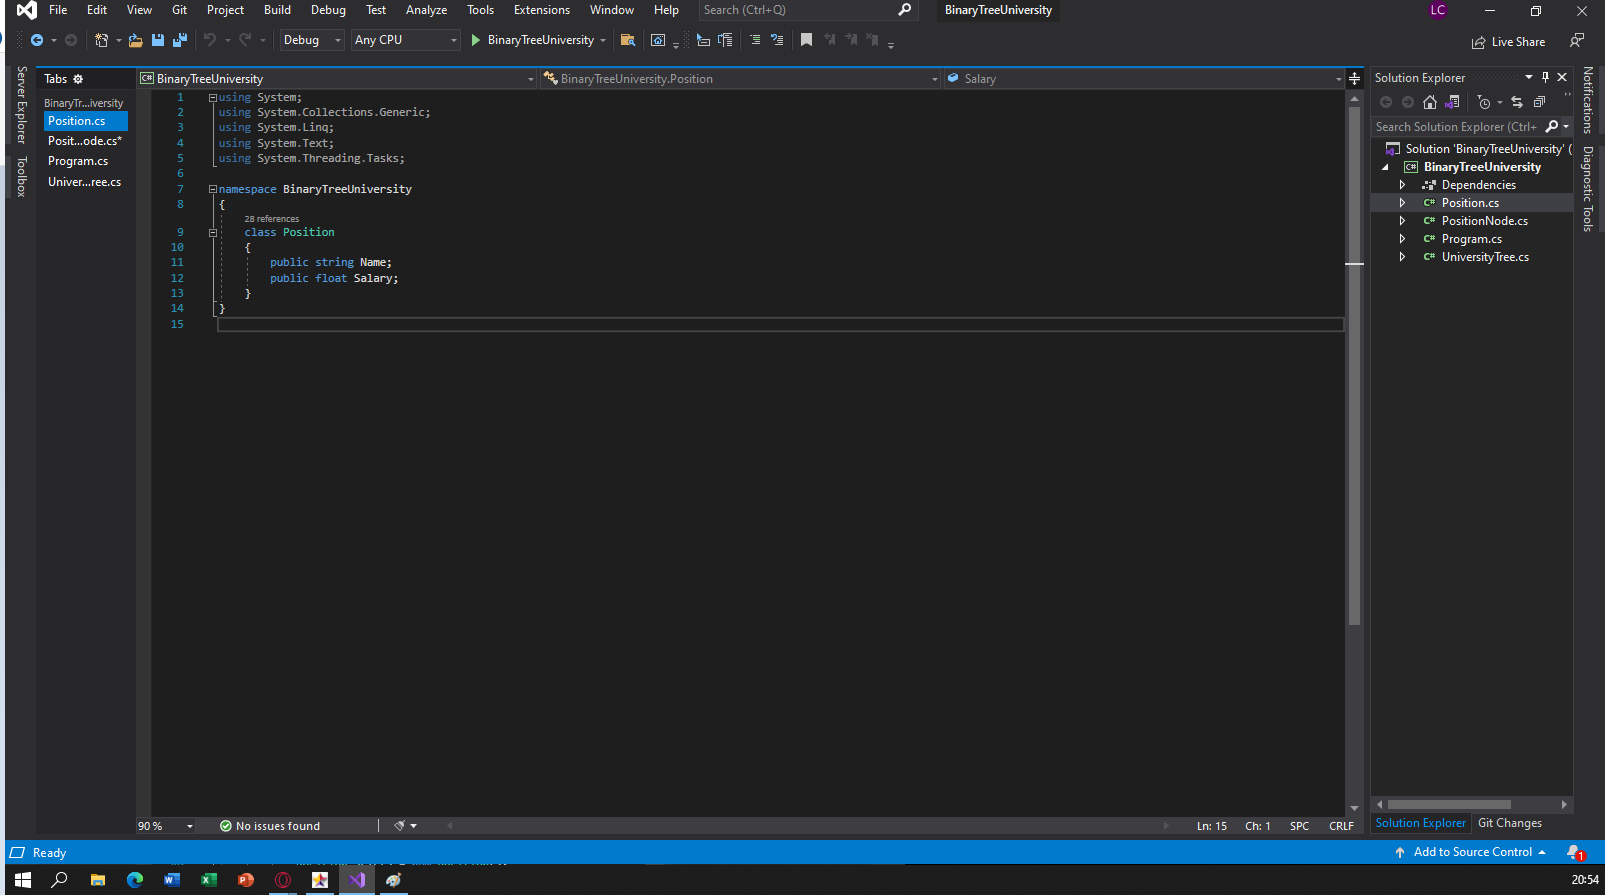
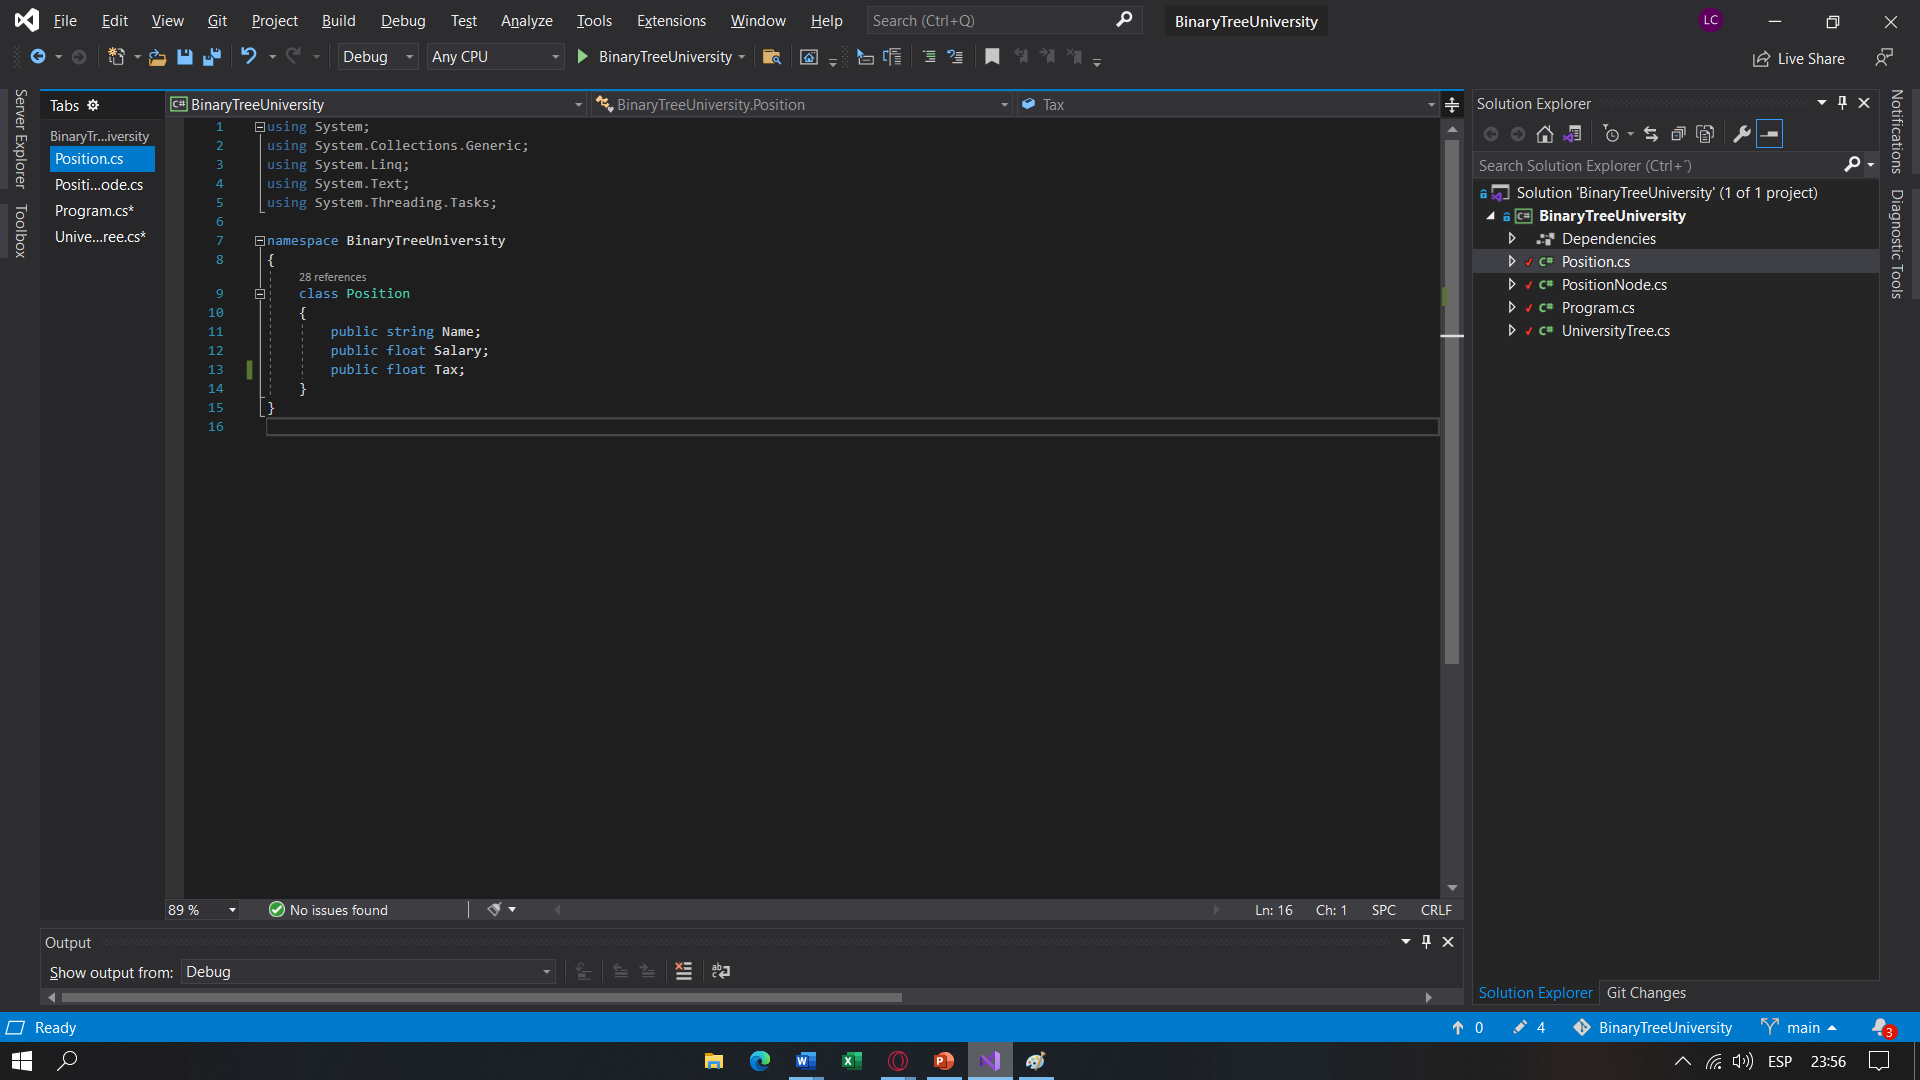
first commit

Changed region(s): [[0.0, 0.0, 1.0, 1.0], [0.5607, 0.0, 0.6854, 0.0302], [0.8723, 0.0, 0.9034, 0.0302]]

diff --git a/BinaryTreeUniversity/Program.cs b/BinaryTreeUniversity/Program.cs
@@ -6,81 +6,114 @@ namespace BinaryTreeUniversity
     {
         static void Main(string[] args)
         {
+           
+
             Position rectorPosition = new Position();
             rectorPosition.Name = "rector";
             rectorPosition.Salary = 1000;
+            rectorPosition.Tax = 30;
+
 
             Position vicFinPosition = new Position();
             vicFinPosition.Name = "Vicerector Financiero";
             vicFinPosition.Salary = 750;
+            vicFinPosition.Tax = 20;
 
-           Position contadorPosition = new Position();
+
+            Position contadorPosition = new Position();
             contadorPosition.Name = "contador";
             contadorPosition.Salary = 500;
+            contadorPosition.Tax = 10;
+
 
             Position jefeFinPosition = new Position();
             jefeFinPosition.Name = "Jefe financiero";
             jefeFinPosition.Salary = 610;
+            jefeFinPosition.Tax = 11;
+
 
             Position secFin1Position = new Position();
             secFin1Position.Name = "Secretaría Financiera 1 ";
             secFin1Position.Salary = 350;
+            secFin1Position.Tax = 5;
 
             Position secFin2Position = new Position();
             secFin2Position.Name = "Secretaría Financiera 2 ";
-            secFin2Position.Salary = 350;
+            secFin2Position.Salary = 310;
+            secFin2Position.Tax = 6;
 
             Position vicAcadPosition = new Position();
-            vicAcadPosition.Name = "Vicerector académico";
+            vicAcadPosition.Name = "Vicerector academico";
             vicAcadPosition.Salary = 780;
+            vicAcadPosition.Tax = 8;
 
             Position jefeRegPosition = new Position();
             jefeRegPosition.Name = "Jefe de Registro";
             jefeRegPosition.Salary = 640;
+            jefeRegPosition.Tax = 9;
 
             Position sectReg2 = new Position();
             sectReg2.Name = "Secretario de registro 2";
             sectReg2.Salary = 360;
+            sectReg2.Tax = 17;
 
             Position sectReg1 = new Position();
             sectReg1.Name = "Secretario de registro 1";
             sectReg1.Salary = 400;
+            sectReg1.Tax = 16;
 
             Position asist2 = new Position();
             asist2.Name = "Asistente 2";
             asist2.Salary = 170;
+            asist2.Tax = 25;
 
             Position asist1 = new Position();
             asist1.Name = "Asistente 1";
             asist1.Salary = 250;
+            asist1.Tax = 26;
 
             Position mensajero = new Position();
             mensajero.Name = "mensajero";
             mensajero.Salary = 90;
+            mensajero.Tax = 27;
 
             UniversityTree universityTree = new UniversityTree();
             universityTree.CreatePosition(null, rectorPosition, null);
+
             universityTree.CreatePosition(universityTree.Root, vicFinPosition, rectorPosition.Name);
             universityTree.CreatePosition(universityTree.Root, contadorPosition, vicFinPosition.Name);
             universityTree.CreatePosition(universityTree.Root, secFin1Position, contadorPosition.Name);
             universityTree.CreatePosition(universityTree.Root, secFin2Position, contadorPosition.Name);
             universityTree.CreatePosition(universityTree.Root, jefeFinPosition, vicFinPosition.Name);
+
+
             universityTree.CreatePosition(universityTree.Root, vicAcadPosition, rectorPosition.Name);
-            universityTree.CreatePosition(universityTree.Root, jefeRegPosition, vicAcadPosition.Name);      
+            universityTree.CreatePosition(universityTree.Root, jefeRegPosition, vicAcadPosition.Name);
             universityTree.CreatePosition(universityTree.Root, sectReg2, jefeRegPosition.Name);
             universityTree.CreatePosition(universityTree.Root, sectReg1, jefeRegPosition.Name);
             universityTree.CreatePosition(universityTree.Root, asist2, sectReg1.Name);
             universityTree.CreatePosition(universityTree.Root, asist1, sectReg1.Name);
             universityTree.CreatePosition(universityTree.Root, mensajero, asist2.Name);
 
-          
             universityTree.PrintTree(universityTree.Root);
-            Console.WriteLine("Total salaries " + universityTree.addSalaries(universityTree.Root));
+            Console.WriteLine("Total salaries = " + universityTree.addSalaries(universityTree.Root));
+
+
+            Console.WriteLine(" *-----------↑↑↑↑ First delivery ↑↑↑↑ ------------*");
+            Console.WriteLine(" *-----------↓↓↓↓ Second delivery ↓↓↓↓------------*");
+
+            int TotalNodes = universityTree.Node(universityTree.Root);
+            
+            universityTree.AddHigherSalary(universityTree.Root);
+            float AverageSalary = universityTree.AvarageSalary(universityTree.Root, TotalNodes);
+          
+            Console.WriteLine("Higher salary  = " + universityTree.getHigherSalary());
+            Console.WriteLine("Average salary  = " + AverageSalary);
+            Console.WriteLine("The total Tax is = " + universityTree.AddTax(universityTree.Root));
+            Console.WriteLine("Write name to search");
+            string name = Console.ReadLine();
+            Console.WriteLine(" the position salary is entered = " + universityTree.PositionSalary(universityTree.Root, name));
             Console.ReadLine();
-
         }
-
-        
-
     }
 }

diff --git a/BinaryTreeUniversity/UniversityTree.cs b/BinaryTreeUniversity/UniversityTree.cs
@@ -9,6 +9,10 @@ namespace BinaryTreeUniversity
     class UniversityTree
     {
         public PositionNode Root;
+        public int CountNodo = 0;
+        private float HigherSalary = 0;
+
+      
 
         public void CreatePosition(PositionNode parent, Position positionToCreate, string parentPositionName)
         {
@@ -40,31 +44,104 @@ namespace BinaryTreeUniversity
                 }
                 CreatePosition(parent.Left, positionToCreate, parentPositionName);
                 CreatePosition(parent.Right, positionToCreate, parentPositionName);
-
-            
-
         }
         public void PrintTree(PositionNode from)
         {
+
             if(from == null)
             {
                 return;
             }
 
             Console.WriteLine($"{from.Position.Name} : ${from.Position.Salary}");
+           
 
             PrintTree(from.Left);
             PrintTree(from.Right);
+           
         }
+  
         public  float addSalaries(PositionNode from)
         {
+
             if(from == null)
             {
                 return 0;
             }
             return from.Position.Salary + addSalaries(from.Left) + addSalaries(from.Right);
+
+        }
+        
+        public int Node(PositionNode nodo)
+        {
+            if (nodo != null)
+            {
+                Node(nodo.Left); Node(nodo.Right);
+
+                CountNodo++;
+            }
+           return CountNodo;
+        }
+        public float AvarageSalary(PositionNode from, int cant)
+        {
+            return (((from.Position.Salary + addSalaries(from.Left) + addSalaries(from.Right))/cant));
+
+        }
+        public float AddTax(PositionNode from)
+        {
+
+            if (from == null)
+            {
+                return 0;
+            }
+             return ((from.Position.Salary * from.Position.Tax/100) + AddTax(from.Left) + AddTax(from.Right));
+        }
+       
+
+        public float getHigherSalary()
+        {
+            return HigherSalary;
         }
 
-    }
+        public void setHigherSalary(float salary)
+        {
+            this.HigherSalary = salary;
+        }
 
+        public void AddHigherSalary(PositionNode from)
+        {
+            if (from == null)
+            {
+                return;
+            }
+
+            if (from != Root)
+            {
+                if (from.Position.Salary > getHigherSalary())
+                {
+                    setHigherSalary(from.Position.Salary);
+                }
+            }
+            AddHigherSalary(from.Left); AddHigherSalary(from.Right);
+        }
+
+        public float PositionSalary(PositionNode from, string name)
+        {
+            if (from == null)
+            {
+                return 0;
+            }
+
+            if (from.Position.Name == name)
+            {
+                return from.Position.Salary;
+            }
+            return PositionSalary(from.Left, name) + PositionSalary(from.Right, name);
+
+            if (from.Position.Salary == 0)
+            {
+                Console.WriteLine("No existe");
+            }
+        }
+    }
 }

diff --git a/BinaryTreeUniversity/PositionNode.cs b/BinaryTreeUniversity/PositionNode.cs
@@ -10,7 +10,7 @@ namespace BinaryTreeUniversity
     {
        public Position Position;
        public PositionNode Left;
-       public PositionNode Right;
+       public PositionNode Right;       
 
     }
 }

diff --git a/BinaryTreeUniversity/Position.cs b/BinaryTreeUniversity/Position.cs
@@ -10,5 +10,6 @@ namespace BinaryTreeUniversity
     {
         public string Name;
         public float Salary;
+        public float Tax;
     }
 }
